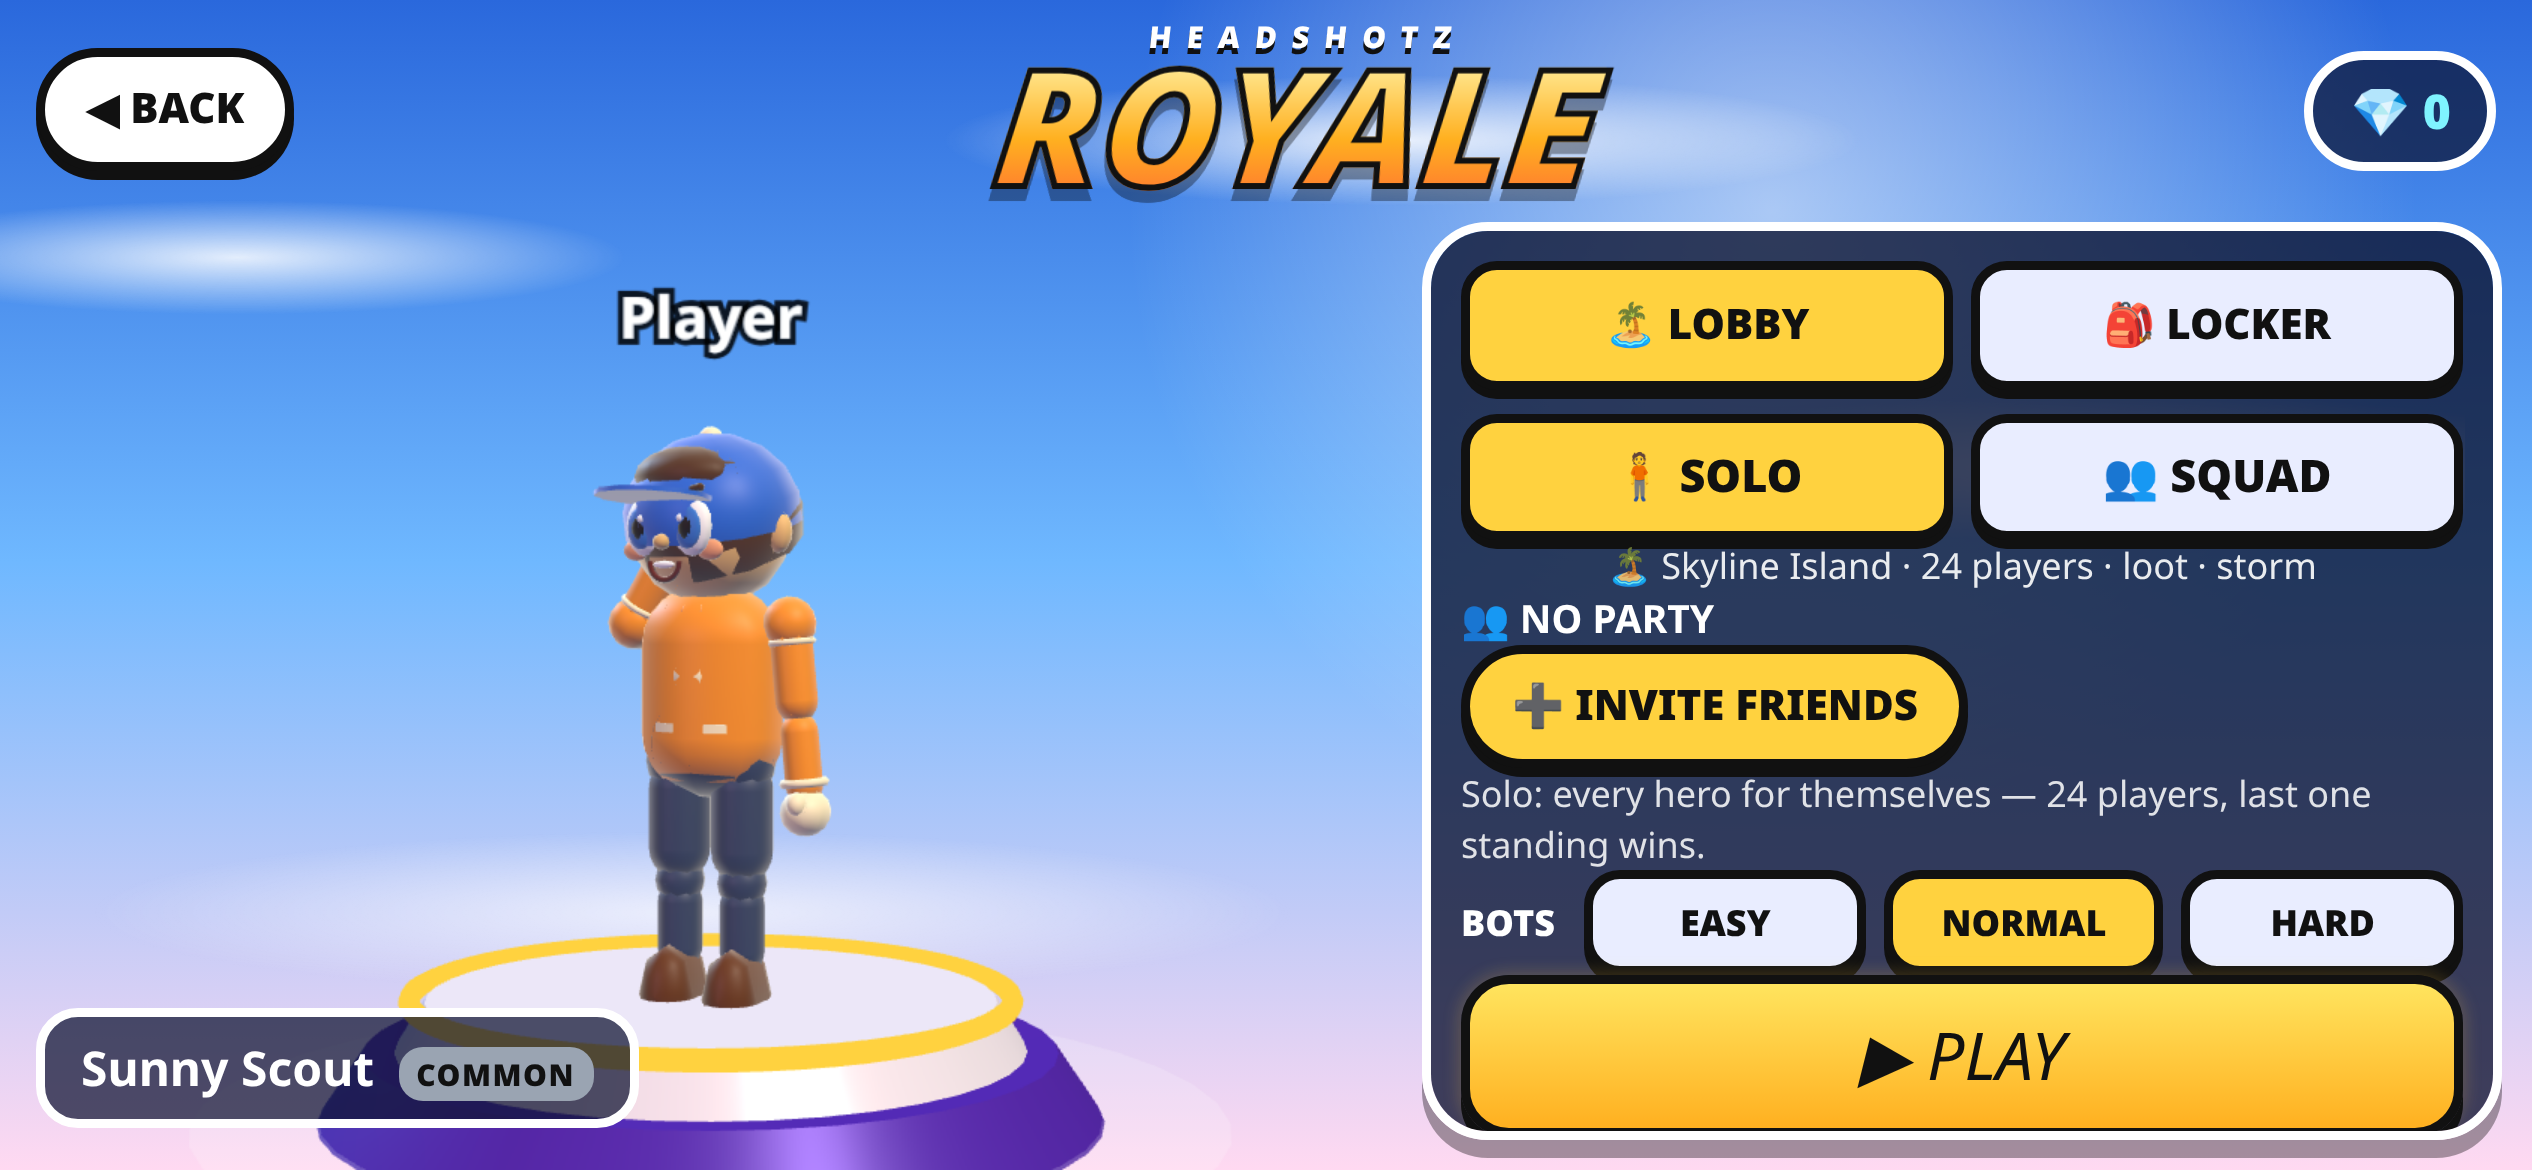
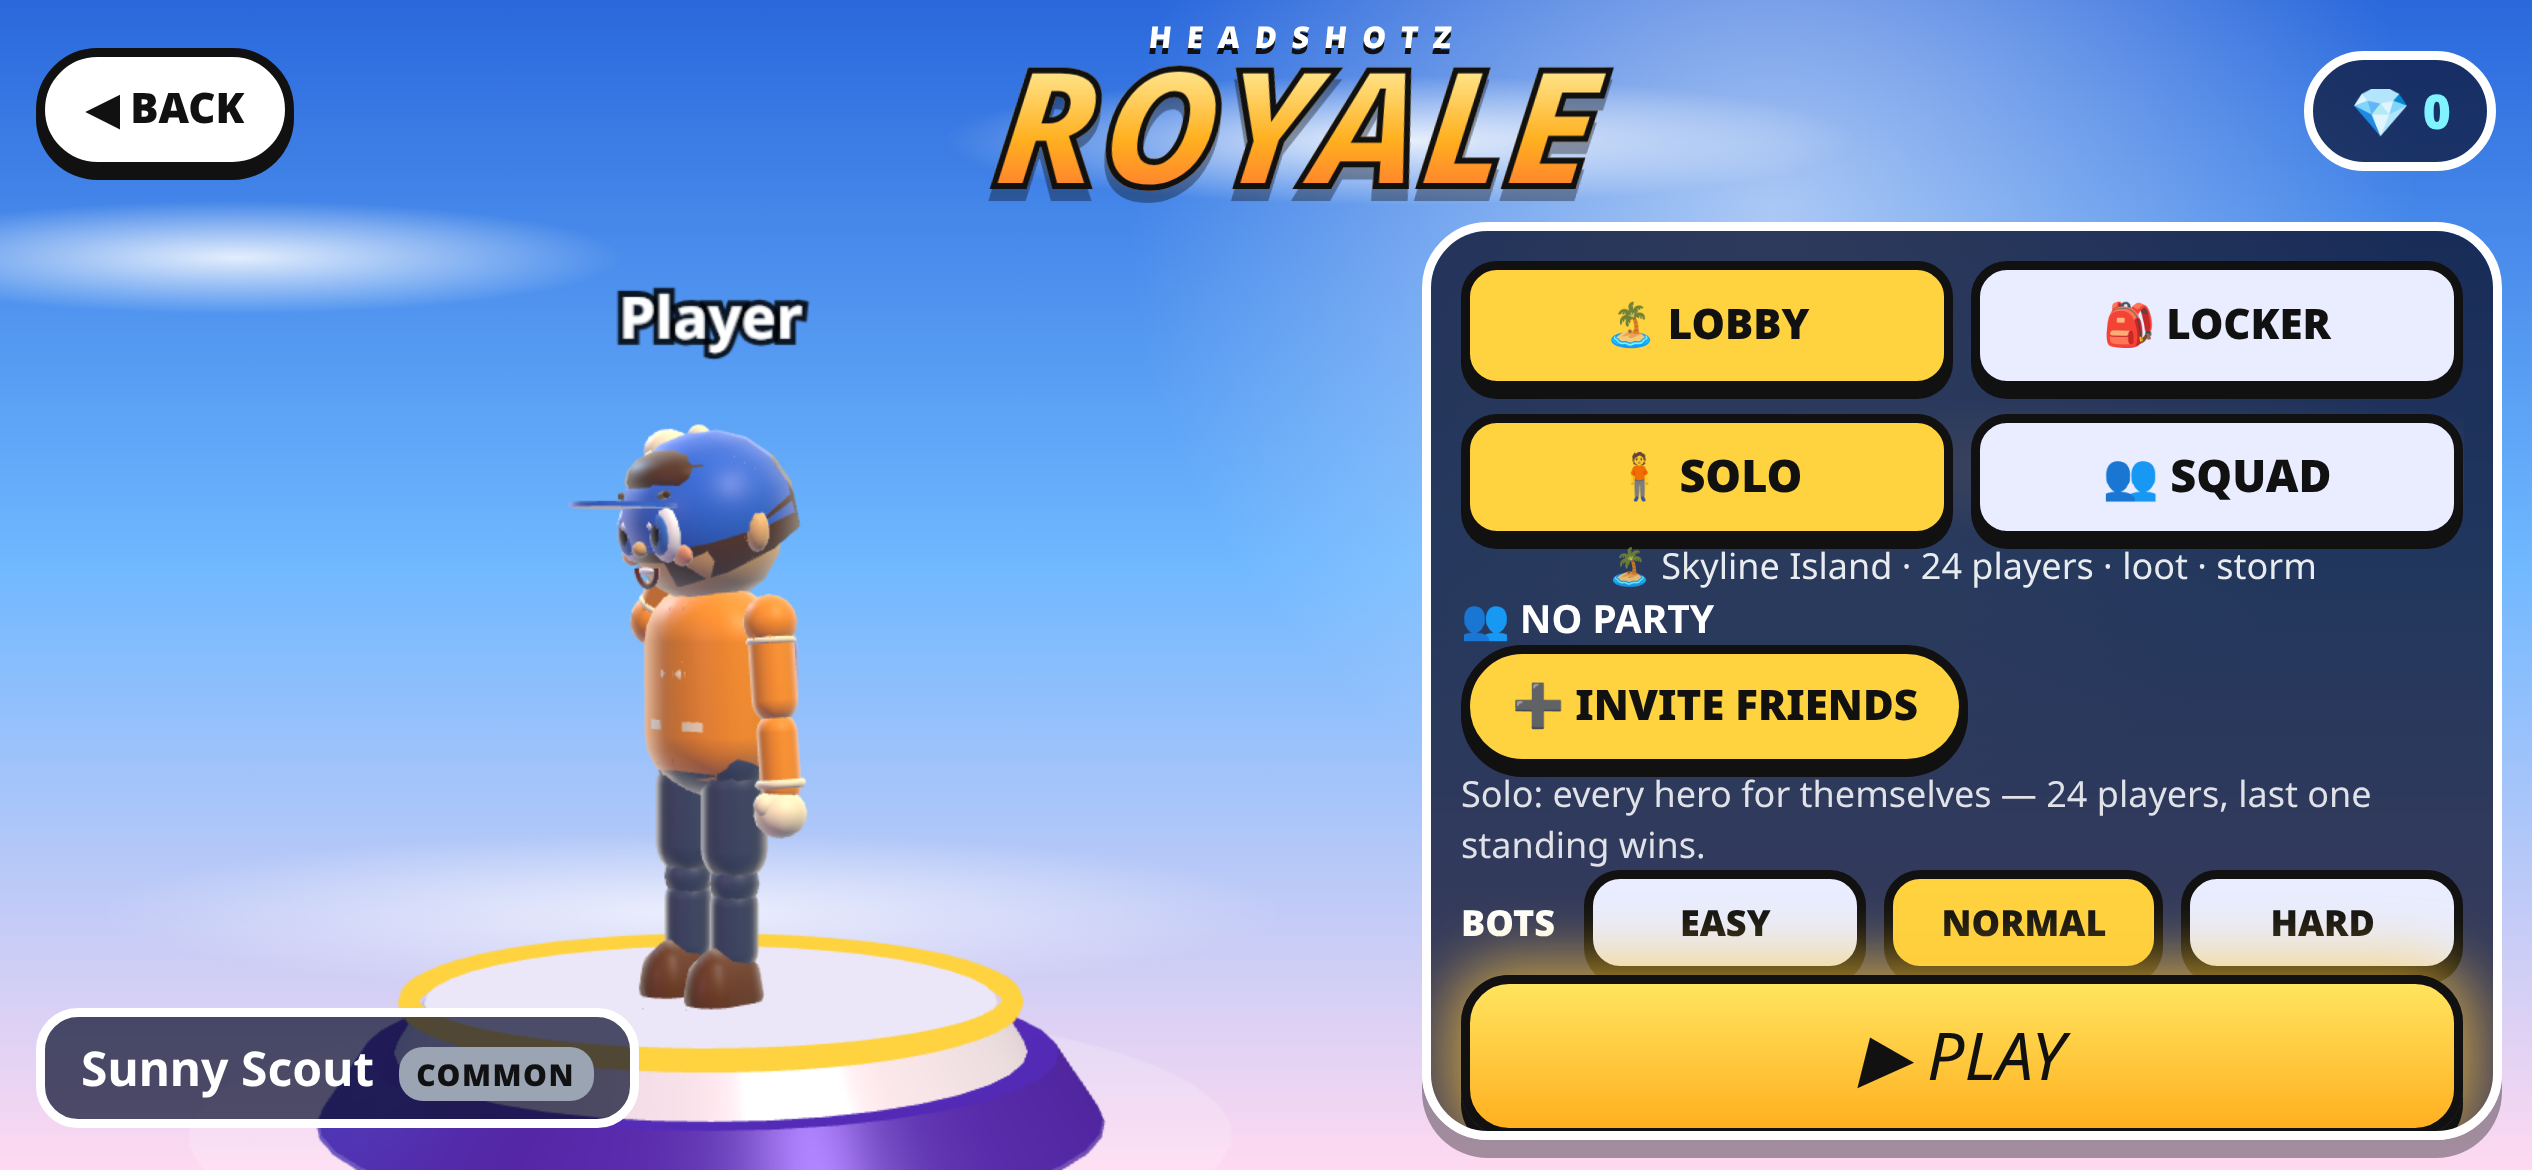
v50: showcase hero holds a weapon (12-weapon picker in locker), 3/4 pose

Changed region(s): [[0.2184, 0.3692, 0.3432, 0.8615], [0.5616, 0.7692, 0.9984, 0.9538]]

diff --git a/royale.js b/royale.js
@@ -6,7 +6,7 @@ const RC=['#9aa4b2','#4cd964','#4dabff','#b37bff','#ffb020'];// common..legendar
 const EMO_LBL={wave:'👋 Wave',dance:'🕺 Dance',flex:'💪 Flex',cheer:'🎉 Cheer',sit:'🪑 Sit',salute:'🫡 Salute',spin:'🌀 Spin',clap:'👏 Clap'};
 export function initRoyale(A){
  const $=A.$,el=$('royale');if(!el)return null;
- const S={tab:'lobby',mode:A.LS('royMode')==='brs'?'brs':'br',diff:A.LS('royDiff')||'normal',fit:0,ry:-.45,vry:0,emote:null,et:0,on:false,mates:[],drag:null};
+ const S={tab:'lobby',mode:A.LS('royMode')==='brs'?'brs':'br',diff:A.LS('royDiff')||'normal',fit:0,gun:A.LS('royGun')||'ar',ry:-.85,vry:0,emote:null,et:0,on:false,mates:[],drag:null};
  const getFit=()=>{const f=parseInt(A.LS('fit')||'0');return isNaN(f)?0:((f%OUTFITS.length)+OUTFITS.length)%OUTFITS.length};
  let R=null,scene=null,cam=null,hero=null,mates=[],raf=0,t0=0,ped=null,ring=null,thumbs=null,lastKey='';
  const cvHost=$('royStage');
@@ -22,9 +22,10 @@ export function initRoyale(A){
   const glow=new THREE.Mesh(new THREE.CircleGeometry(1.7,40),new THREE.MeshBasicMaterial({color:0xffffff,transparent:true,opacity:.18,depthWrite:false}));glow.rotation.x=-Math.PI/2;glow.position.y=-.37;ped.add(glow);
   scene.add(ped)}
  function nm(){return (($('nameIn')&&$('nameIn').value)||'Player').slice(0,12)}
- function mkHero(){if(hero){scene.remove(hero)}hero=makeToon(0xffffff,nm(),'roy-me','#ffffff',S.fit);hero.userData.tag.scale.set(1.3,.325,1);hero.position.set(0,0,0);scene.add(hero);hero.userData.args=null}
+ function gunFor(m,id){const u=m.userData;if(!u.gunMount||!A.gun)return;u.gunMount.clear();const g=A.gun(id,u.outfit&&u.outfit.glove);if(g){u.gunMount.add(g);u.gunId=id}}
+ function mkHero(){if(hero){scene.remove(hero)}hero=makeToon(0xffffff,nm(),'roy-me','#ffffff',S.fit);gunFor(hero,S.gun);hero.userData.tag.scale.set(1.3,.325,1);hero.position.set(0,0,0);scene.add(hero);hero.userData.args=null}
  function mkMates(){for(const m of mates)scene.remove(m);mates=[];const P=A.party&&A.party();const list=(P&&P.m?P.m:[]).filter(x=>x.code!==A.myCode()).slice(0,3);S.mates=list;
-  list.forEach((x,i)=>{const m=makeToon(0xffffff,x.name||'Friend','mate-'+x.code,'#ffd23f',null);m.userData.tag.scale.set(1.1,.275,1);const sd=i===0?-1:i===1?1:0;m.position.set(sd?sd*1.55:0,0,sd?.55:1.4);m.scale.setScalar(.92);m.rotation.y=.5-sd*.25;scene.add(m);mates.push(m)})}
+  list.forEach((x,i)=>{const m=makeToon(0xffffff,x.name||'Friend','mate-'+x.code,'#ffd23f',null);m.userData.tag.scale.set(1.1,.275,1);const sd=i===0?-1:i===1?1:0;m.position.set(sd?sd*1.55:0,0,sd?.55:1.4);gunFor(m,S.gun);m.scale.setScalar(.92);m.rotation.y=.5-sd*.25;scene.add(m);mates.push(m)})}
  function layout(){const w=cvHost.clientWidth||600,h=cvHost.clientHeight||400;const dpr=Math.min(window.devicePixelRatio||1,2);R.setPixelRatio(dpr);R.setSize(w,h);cam.aspect=w/h;
   // hero a bit left-of-centre on wide screens, framed head-to-toe
   const wide=w/h>1.2;cam.fov=wide?26:32;cam.position.set(0,1.35,-6.9+(wide?0:-.8));cam.lookAt(wide?-.05:0,1.02,0);cam.updateProjectionMatrix();if(R.domElement.parentNode!==cvHost){cvHost.innerHTML='';cvHost.appendChild(R.domElement)}R.domElement.style.cssText='width:100%;height:100%;display:block;touch-action:none'}
@@ -32,8 +33,8 @@ export function initRoyale(A){
  let idleT=0;
  function frame(now){if(!S.on)return;raf=requestAnimationFrame(frame);const dt=Math.min(.05,(now-(t0||now))/1000);t0=now;
   S.ry+=S.vry*dt;S.vry*=Math.exp(-dt*2.5);if(!S.drag&&Math.abs(S.vry)<.05)S.ry+=Math.sin(now/2400)*.0015;
-  if(hero){hero.rotation.y=S.ry;const st={speed:0,hold:false,relax:true,pitch:0,lz:-1,lx:0,noTag:false,dist:3,emote:S.emote};if(S.emote){S.et+=dt;if(S.et>(EMOTE_DUR[S.emote]||3)+.2)S.emote=null}else{idleT+=dt;if(idleT>7){idleT=0;playEmote(['wave','cheer','flex'][Math.random()*3|0])}}animToon(hero,st,dt)}
-  mates.forEach((m,i)=>{animToon(m,{speed:0,hold:false,relax:true,pitch:0,lz:-1,lx:0,dist:3,emote:null},dt)});
+  if(hero){hero.rotation.y=S.ry;const st={speed:0,hold:true,pitch:-.22,lz:-1,lx:0,noTag:false,dist:3,emote:S.emote,lobby:1};if(S.emote){S.et+=dt;if(S.et>(EMOTE_DUR[S.emote]||3)+.2)S.emote=null}else{idleT+=dt;if(idleT>7&&!S.still){idleT=0;playEmote(['wave','cheer','flex'][Math.random()*3|0])}}animToon(hero,st,dt)}
+  mates.forEach((m,i)=>{animToon(m,{speed:0,hold:true,pitch:0,lz:-1,lx:0,dist:3,emote:null},dt)});
   if(ring)ring.rotation.z=now/3000;
   R.setClearColor(0,0);R.render(scene,cam)}
  function start(){if(S.on)return;S.on=true;build();S.fit=getFit();mkHero();mkMates();layout();t0=0;raf=requestAnimationFrame(frame);playEmote('wave')}
@@ -44,9 +45,12 @@ export function initRoyale(A){
   if(hero)hero.visible=false;for(const m of mates)m.visible=false;if(ped)ped.visible=false;
   OUTFITS.forEach((o,i)=>{const m=makeToon(0xffffff,'','th'+i,'#fff',i,{noTag:true});m.rotation.y=.5;scene.add(m);animToon(m,{speed:0,hold:false,relax:true,pitch:0,lz:-1,lx:0,noTag:true},.016);R.setClearColor(0,0);R.render(scene,c2);thumbs[i]=R.domElement.toDataURL('image/png');scene.remove(m)});
   if(hero)hero.visible=true;for(const m of mates)m.visible=true;if(ped)ped.visible=true;R.setPixelRatio(dpr);layout()}
+ function GUNS(){const Ws=A.W||{};return ['ar','ak47','smg','shotgun','sniper','dmr','handgun','revolver','lmg','rpg','knife','katana'].filter(k=>Ws[k]).map(k=>({id:k,n:Ws[k].name}))}
+ function setGun(id){S.gun=id;A.LSS('royGun',id);gunFor(hero,id);mates.forEach(m=>gunFor(m,id));playEmote(null);S.emote=null;render()}
  function renderLocker(){const cur=S.fit;let h='<div class="rl">OUTFITS</div><div class="outGrid">';
   OUTFITS.forEach((o,i)=>{h+=`<button class="outCard ${i===cur?'sel':''}" data-o="${i}" style="--rc:${RC[o.rar||0]}"><img alt="" src="${thumbs?thumbs[i]:''}"><b>${o.name}</b>${rarTag(o)}${i===cur?'<span class="eq">✔ EQUIPPED</span>':''}</button>`});
-  h+='</div><div class="rl">EMOTES <small>tap to preview</small></div><div class="emoRow">'+EMOTES.map(e=>`<button class="pill" data-e="${e}">${EMO_LBL[e]||e}</button>`).join('')+'</div>';
+  h+='</div><div class="rl">SHOWCASE WEAPON <small>tap to hold</small></div><div class="emoRow">'+GUNS().map(g=>`<button class="pill ${g.id===S.gun?'yellow':''}" data-g="${g.id}">${g.n}</button>`).join('')+'</div>';
+  h+='<div class="rl">EMOTES <small>tap to preview</small></div><div class="emoRow">'+EMOTES.map(e=>`<button class="pill" data-e="${e}">${EMO_LBL[e]||e}</button>`).join('')+'</div>';
   $('royLocker').innerHTML=h}
  function party(){const P=A.party&&A.party();const lead=A.partyLead&&A.partyLead();const sq=S.mode==='brs';
   let h=`<div class="pMemRow"><b>👥 ${P?'PARTY '+P.m.length+'/4':'NO PARTY'}</b>`;if(P)h+=P.m.map(x=>`<span class="${x.code===P.lead?'lead':''}">${x.code===P.lead?'👑 ':''}${A.esc(x.name)}</span>`).join('');h+='</div>';
@@ -71,6 +75,7 @@ export function initRoyale(A){
   else if(b.dataset.m){S.mode=b.dataset.m;A.LSS('royMode',S.mode);render();mkMates()}
   else if(b.dataset.d){S.diff=b.dataset.d;render()}
   else if(b.dataset.o!=null)setFit(+b.dataset.o);
+  else if(b.dataset.g)setGun(b.dataset.g);
   else if(b.dataset.e)playEmote(b.dataset.e);
   else if(b.id==='royPlay')play();else if(b.id==='royBack')close();else if(b.id==='royInvite')A.openFriends();else if(b.id==='royLeave'){A.partyLeave();render();mkMates()}});
  // drag to spin, tap hero to emote
@@ -78,4 +83,4 @@ export function initRoyale(A){
  cvHost.addEventListener('pointermove',e=>{if(!S.drag)return;const dx=e.clientX-S.drag.x;S.drag.x=e.clientX;S.drag.m+=Math.abs(dx);S.ry+=dx*.012;S.vry=dx*.012*60*.5});
  cvHost.addEventListener('pointerup',()=>{if(S.drag&&S.drag.m<6)playEmote(['wave','dance','flex','cheer'][Math.random()*4|0]);S.drag=null});
  addEventListener('resize',()=>{if(S.on)layout()});
- const api={open,close,render,state:S,start,stop,refresh:()=>{if(S.on){mkMates();render()}}};return api}
+ const api={get hero(){return hero},open,close,render,state:S,start,stop,refresh:()=>{if(S.on){mkMates();render()}}};return api}

diff --git a/game.js b/game.js
@@ -2224,4 +2224,4 @@ window.__hsz.EMOTE_DUR=EMOTE_DUR;window.__hsz.emote=startEmote;window.__hsz.emoS
 window.__hsz.TPV=TPV;window.__hsz.rayW=(o,d,m)=>rayWorld(o,d,m);window.__hsz.camera=camera;window.__hsz.vmRoot=vmRoot;window.__hsz.camToggle=camToggle;
 
 // ---- v47 Royale menu entry + lobby ----
-{const ROY=initRoyale({$,LS,LSS,audioInit,play:(m,o)=>playOnlineBots(m,o),party:()=>PARTY,partyLead,myCode:()=>FR.code,esc,openFriends,partyLeave,r2});window.__hsz.royale=ROY;if(ROY&&$('royaleBtn'))$('royaleBtn').onclick=()=>ROY.open()}
+{const ROY=initRoyale({$,LS,LSS,audioInit,play:(m,o)=>playOnlineBots(m,o),party:()=>PARTY,partyLead,myCode:()=>FR.code,esc,openFriends,partyLeave,r2,gun:(id,gl)=>tpGun(id,'',gl),W});window.__hsz.royale=ROY;if(ROY&&$('royaleBtn'))$('royaleBtn').onclick=()=>ROY.open()}
